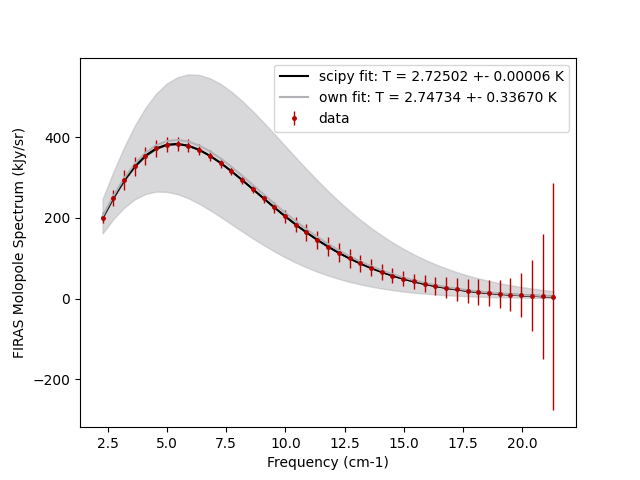
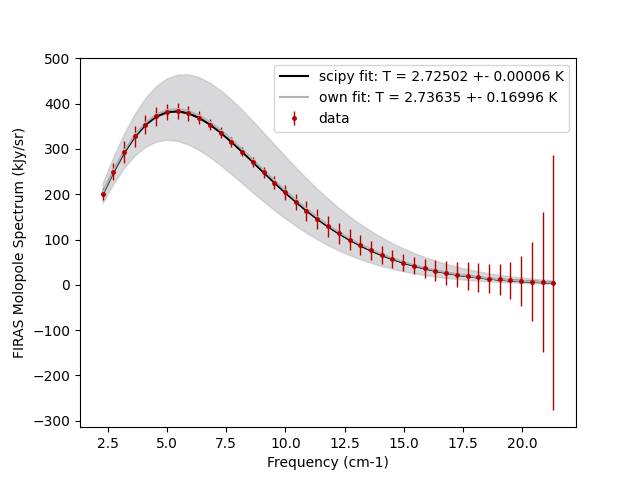
added file printing

diff --git a/src/main.py b/src/main.py
@@ -17,6 +17,15 @@ c = 29979245800  # cm s-1
 h = 6.62607015e-27  # erg Hz-1
 kB = 1.380649e-16  # erg K-1
 
+if method == "scipy":
+    filename = f"{method}"
+elif method == "own" or method == "both":
+    filename = f"{method}_{sampling_method}_{minimizing_method}"
+
+text = "Estimate for temperature of CMB assuming it is a BB\n\n"
+with open(f"../output/{filename}.txt", "w") as f:
+    f.write(text)
+
 data = []
 
 # reading data file and parsing it into a numpy matrix
@@ -77,9 +86,11 @@ if method == "own" or method == "both":
         target_error=0.1,
         max_iterations=1000,
     )
-    print(
-        f"Estimate for temperature of CMB assuming it is a BB\nEstimate using own algorithm: {own_pred:.5f} +- {own_error:.5f} K"
-    )
+    text = f"Estimate using own algorithm: {own_pred:.5f} +- {own_error:.5f} K\n"
+
+    print(text)
+    with open(f"../output/{filename}.txt", "w") as f:
+        f.write(text)
 
     # shaded area for the error
     plt.fill_between(
@@ -92,9 +103,11 @@ if method == "own" or method == "both":
 
 if method == "scipy" or method == "both":
     scipy_pred, scipy_error = scipy_fit(planck, xdata, ydata, yerrordata)
-    print(
-        f"Estimate using scipy built-in function: {scipy_pred:.5f} +- {scipy_error:.5f} K"
-    )
+    text = f"Estimate using scipy built-in function: {scipy_pred:.5f} +- {scipy_error:.5f} K"
+    print(text)
+    with open(f"../output/{filename}.txt", "a") as f:
+        f.write(text)
+
     # shaded area for the error
     plt.fill_between(
         x=xdata,
@@ -120,9 +133,4 @@ if method == "own" or method == "both":
     )
 
 plt.legend(loc="best")
-
-if method == "scipy":
-    filename = f"{method}"
-elif method == "own" or method == "both":
-    filename = f"{method}_{sampling_method}_{minimizing_method}"
 plt.savefig(f"../output/{filename}.png")

diff --git a/src/globals.py b/src/globals.py
@@ -1,3 +1,19 @@
 method = "both"
+"""
+OPTIONS FOR METHOD:
+"own" - use algorithm coded by me
+"scipy" - use curve_fit function from the scipy library
+"both" - use both methods
+"""
+
 sampling_method = "uniform"
+"""
+OPTIONS FOR SAMPLING_METHOD (only useful if choosing "own" or "both" method):
+uniform - sample uniformly from the interval [0, 293.15]K - minimum possible temperature and NTP temperature
+"""
+
 minimizing_method = "rms"
+"""
+OPTIONS FOR MINIMIZING_METHOD (only useful if choosing "own" or "both" method):
+rms - root mean square error
+"""

diff --git a/src/own_algorithm.py b/src/own_algorithm.py
@@ -15,11 +15,11 @@ def fit(
     ydata,
     yerrordata,
     min=0,
-    max=100,
+    max=293.15,
     sampling_method="uniform",
     minimizing_method="rms",
     target_error=1e-5,
-    max_iterations=10000,
+    max_iterations=100000,
 ):
     min_error = np.inf
     best_T = 0
